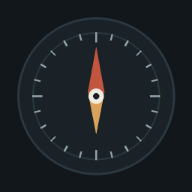
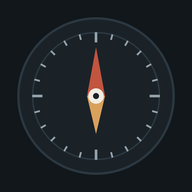
المتجر: أيقونة مرسومة بدقة 1024 وملاحظات مراجع أبل بالإنجليزي
- إعادة رسم أيقونة البوصلة بدقة 1024 (كانت مكبّرة من 512) وتحديث 512/192 وشاشة البداية.
- ملاحظات المراجع: خطوات تجربة المزايا الأصلية وبدون إنترنت، ورابط فيديو العرض،
  وضوابط المحتوى من المستخدمين (البند 1.2) مع رابط شروط النشر.

Claude-Session: https://claude.ai/code/session_01MxghaJ32PKmiiynYo6S8nR

diff --git a/store/APP_STORE.md b/store/APP_STORE.md
@@ -66,12 +66,29 @@
 - **Promotional text:** Offline desert maps of Saudi Arabia, an accurate compass, track recording and backtracking, plus vegetation, rain and live cloud layers — everything for your trip in one app.
 
 ## ملاحظات للمراجع (App Review Information → Notes)
+انسخ النص الإنجليزي كما هو. لا يحتاج حساب تجربة: اختر **Sign-in required: No**.
 ```
-Dalil is a free offline navigation app for desert trips in Saudi Arabia. No account or login is required.
-- Location is used on-device for the map, compass and track recording.
-- To test offline maps: Settings → "حفظ خرائط المناطق" → save a region, then enable Airplane Mode.
-- The "Events" section shows user-submitted flood/rain photos. Every photo is reviewed and approved by the developer before it becomes public. Users can report any photo (auto-hidden after 3 reports) and block its poster ("Block this poster" hides all their photos immediately and sends a report). Photos expire automatically after 3 days. Contact: see the support URL.
-- Weather: Open-Meteo. Imagery layers: NASA GIBS and EUMETSAT. Map data: © OpenStreetMap contributors.
+Dalil is a free offline navigation app for desert trips in Saudi Arabia (the app UI is in Arabic). No account, no ads, no in-app purchases.
+
+Demo video (60 s): https://f10f100a-debug.github.io/dalil-app/assets/dalil-demo.mp4
+
+Native, on-device features to test (tab bar, right to left):
+1. Compass (البوصلة): live device compass with Qibla direction; tap "حفظ موقعي" to save the current spot, then navigate back to it with distance/bearing/ETA.
+2. Places (الأماكن): 40,000+ offline desert places (wadis, mountains, wells) with search and "nearby"; tap "توجّه" to navigate to one.
+3. Map (الخريطة): offline vector maps with terrain and contours; record a GPS track under "تسجيل المسار" and follow it back ("ارجع من نفس المسار"); export as GPX.
+4. Offline mode: Settings (الإعدادات) → "حفظ خرائط المناطق للاستخدام بدون إنترنت" → save one region, then enable Airplane Mode: map, compass, places and tracking keep working.
+5. Weather (الأجواء): 7-day weather and wind (Open-Meteo), vegetation and rain layers (NASA GIBS).
+
+Location is used on-device only (When In Use). Motion is used for the compass. Camera/Photos are used only if the user chooses to post an event photo.
+
+User-generated content (Weather → Events / الأحداث): users can post flood/rain photos. Safeguards (Guideline 1.2):
+- Users must agree to posting terms with zero tolerance for objectionable content before their first post (terms: https://f10f100a-debug.github.io/dalil-app/support.html#terms).
+- Every photo is reviewed and approved by the developer before it becomes visible.
+- Any user can report a photo (auto-hidden after 3 reports) and "Block this poster" (hides all their photos immediately and notifies the developer).
+- Reports are handled within 24 hours; photos expire automatically after 3 days.
+- Contact: dalilbarr.app@gmail.com
+
+Data sources: © OpenStreetMap contributors, Copernicus DEM, NASA GIBS, EUMETSAT, Open-Meteo.
 ```
 
 ## نموذج الخصوصية في App Store Connect (App Privacy)
@@ -92,7 +109,7 @@ Dalil is a free offline navigation app for desert trips in Saudi Arabia. No acco
 - المتوقع: **+12** غالبًا بسبب المحتوى من المستخدمين (أو 4+ إن لم تعتبره أبل كذلك).
 
 ## المواد المطلوبة
-- [x] أيقونة 1024×1024 بلا شفافية: `store/icon-1024.png` (مكبّرة من 512 — يُفضّل لاحقًا تصميم أصلي بدقة 1024).
+- [x] أيقونة 1024×1024 بلا شفافية: `store/icon-1024.png` (مرسومة بدقة 1024).
 - [ ] لقطات شاشة آيفون 6.9 بوصة (1320×2868) — 3 إلى 10 لقطات: البوصلة، الخريطة، الأماكن، الأجواء/الربيع، الاستيراد.
 - [ ] (اختياري) لقطات آيباد 13 بوصة إن دعمنا الآيباد.
 
